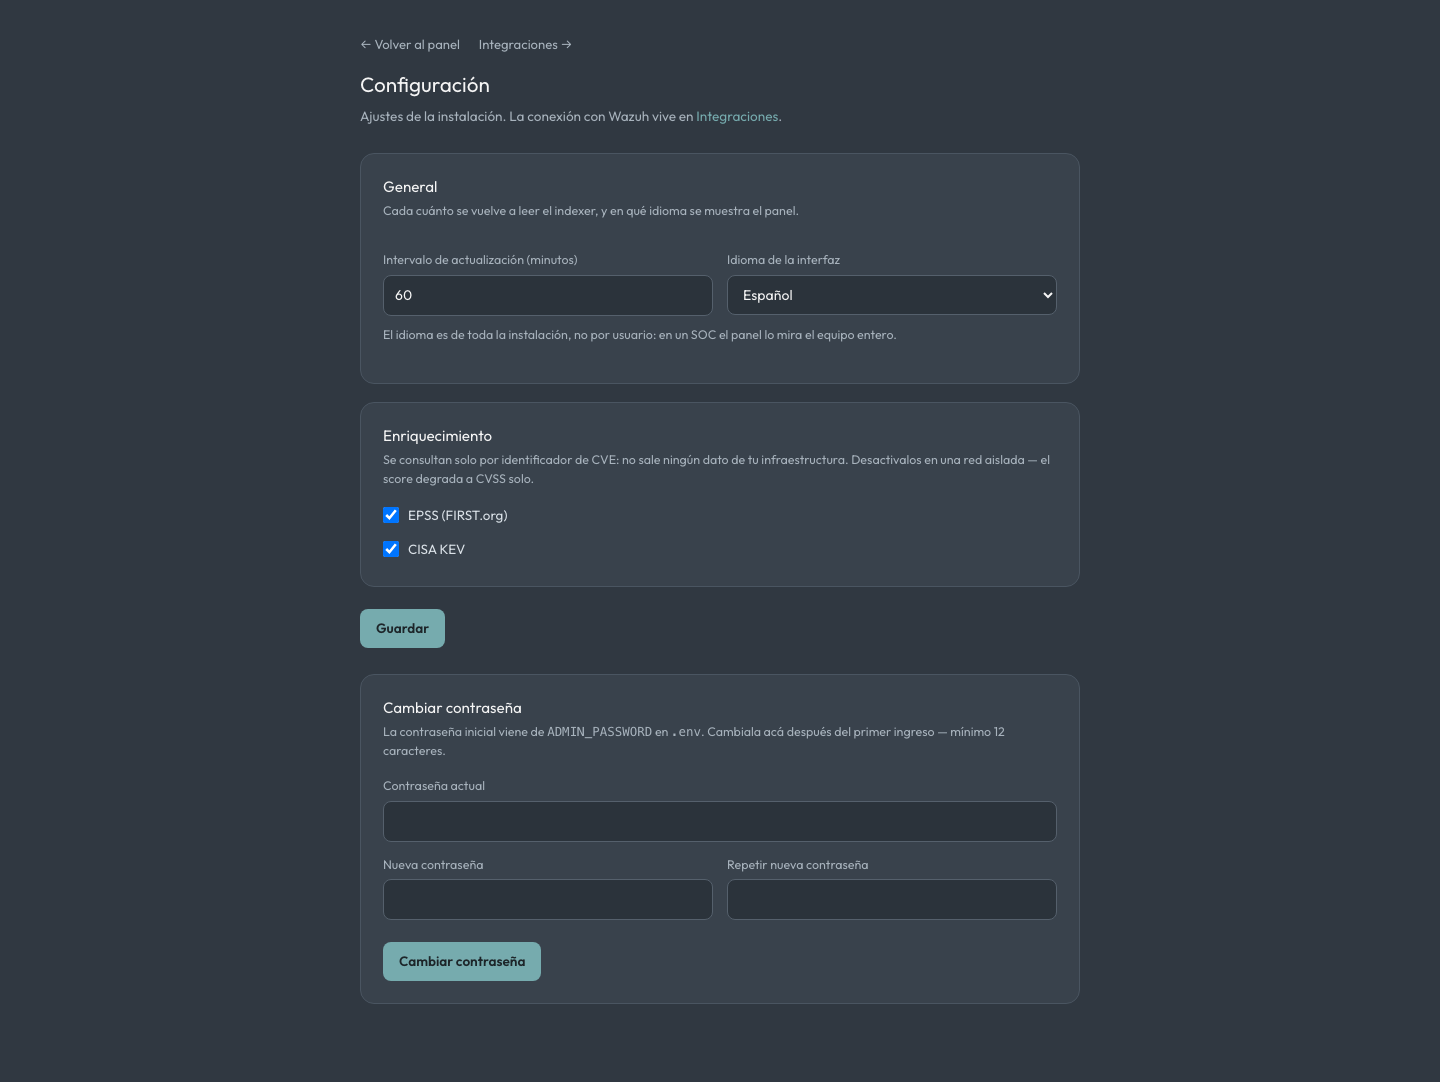
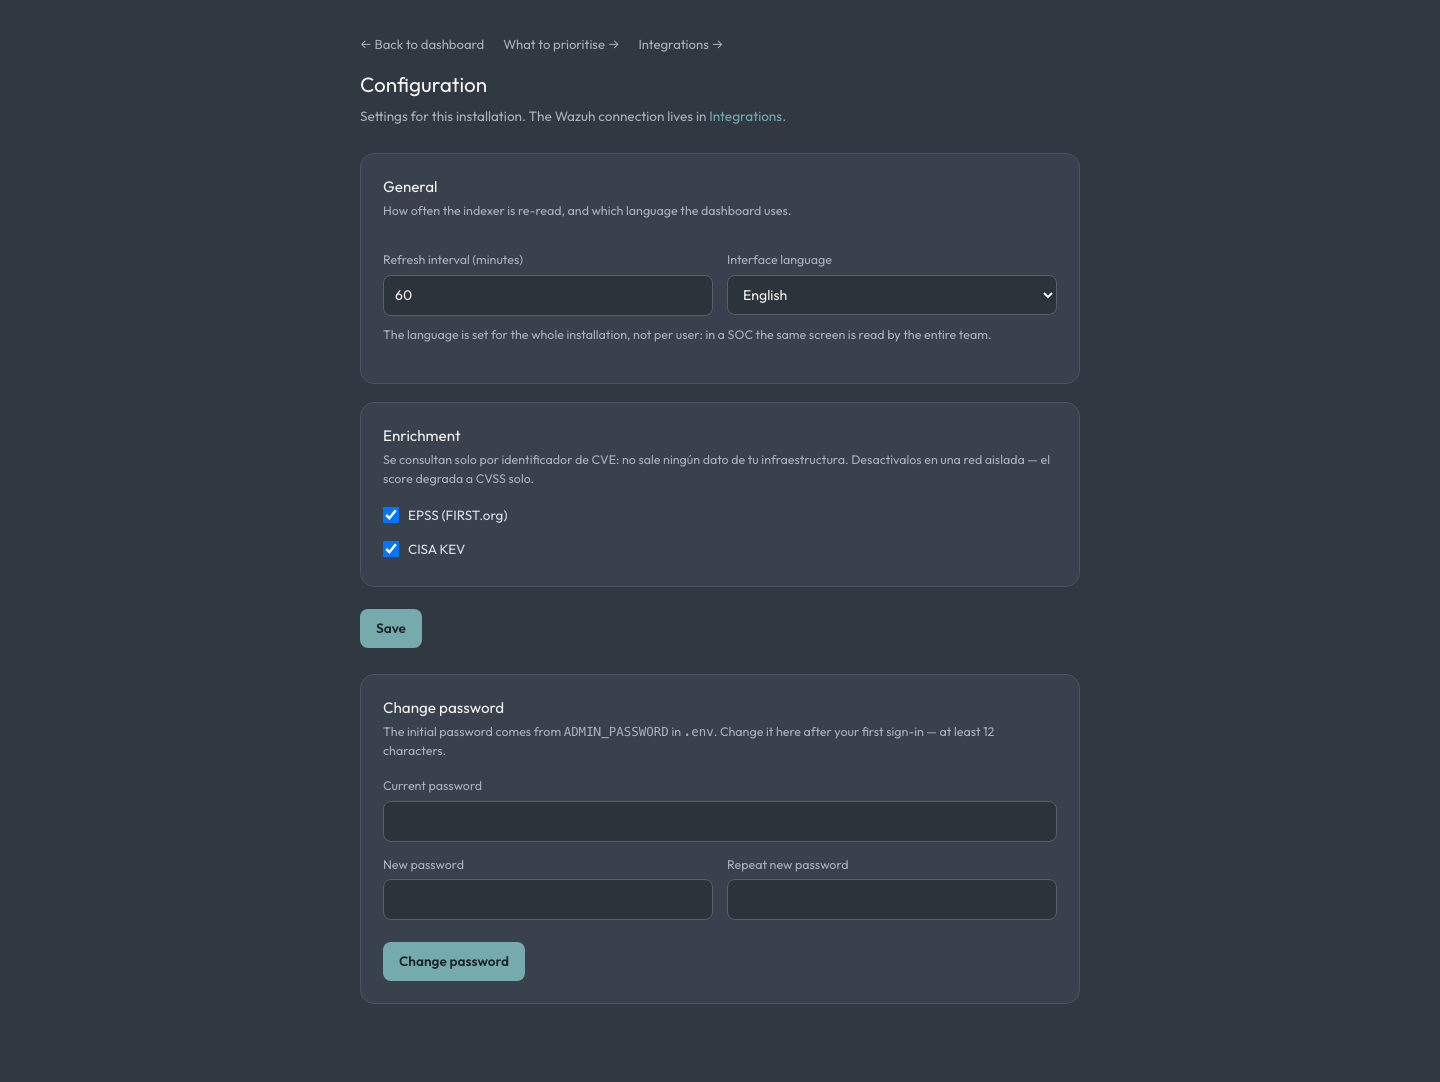
Refresh the README and the launch post
Every screenshot was of the Spanish interface, which no longer exists. All six
are recaptured, and the architecture and sequence diagrams swap to the light
theme — they sit on a white README page, where the dark ones read as a hole in
the middle of the text.

Adds the brief to the features, its own section with the warning about what
leaves the network, and a FAQ entry answering that directly rather than leaving
someone to infer it. The post gains the same, plus the note that a local model
keeps the hostnames inside.

Claude-Session: https://claude.ai/code/session_01LfqGgYzUrbGMaTeJnwS7xj

diff --git a/docs/marketing/linkedin-post.md b/docs/marketing/linkedin-post.md
@@ -1,8 +1,8 @@
 # Post para LinkedIn — Patch Genius
 
-Todos los números que aparecen abajo salen de una instalación real corriendo
-contra un Wazuh 4.14.6 con agentes Linux y Windows. Están verificados contra la
-API antes de escribirlos.
+Los números salen de una instalación real contra Wazuh 4.14.6 con agentes Linux y
+Windows, verificados contra la API antes de escribirlos. Volvé a chequearlos
+antes de publicar: cambian con cada ingesta.
 
 ---
 
@@ -34,13 +34,14 @@ aunque su CVSS sea mediocre: alguien ya lo está usando.
 
 → **Separa Linux de Windows.** Un hallazgo de sistema operativo se cierra con un
 KB acumulativo, no con `apt upgrade`. Y no es un detalle: en esa instalación
-**2.089 de los 2.515 CVEs son de un solo build de Windows Server**. En el mismo
-ranking que los paquetes, tapan absolutamente todo lo demás.
+**2.089 de los 2.515 CVEs vienen de un solo build de Windows Server**. En el
+mismo ranking que los paquetes, tapan absolutamente todo lo demás.
 
-→ **Resumen con IA.** Un brief diario que dice qué priorizar esta semana, con qué
-servidores y qué paquetes. Funciona con Claude, OpenAI o un modelo local — y esa
-última opción existe porque el brief se arma con el estado real del parque,
-hostnames incluidos. Con un modelo local no sale nada de tu red.
+→ **Un brief que dice qué hacer.** Un modelo convierte el ranking en un párrafo
+que nombra servidores y paquetes concretos: qué parchear esta semana y por qué.
+Funciona con Claude, con OpenAI o con un modelo local — y esa última opción no es
+decorativa: el brief lleva hostnames, así que quien no pueda mandarlos afuera lo
+apunta a su propio endpoint y no sale nada de su red.
 
 → **Seguimiento por CVE y por agente.** El mismo CVE puede estar resuelto en un
 servidor y pendiente en otro. Responsable, estado y fecha objetivo a ese nivel.
@@ -49,9 +50,9 @@ servidor y pendiente en otro. Responsable, estado y fecha objetivo a ese nivel.
 
 El índice de vulnerabilidades de Wazuh contiene **solo lo activo**: cuando
 parcheás, el registro se borra. No hay campo de estado ni historial. Así que
-"resuelto" se deriva comparando cada lectura con la anterior. En la última
-corrida eso detectó **501 pares (CVE, servidor) cerrados en un día** que de otra
-forma simplemente habrían desaparecido de la pantalla sin dejar rastro.
+"resuelto" se deriva comparando cada lectura con la anterior. En un solo día eso
+detectó **501 pares (CVE, servidor) cerrados** que de otra forma habrían
+desaparecido de la pantalla sin dejar rastro.
 
 Y una trampa peor: Wazuh **reescribe `vulnerability.detected_at`** cada vez que
 reindexa un registro. Un SLA de parcheo construido sobre ese campo se reinicia
@@ -61,9 +62,9 @@ guarda su propia fecha de primera detección.
 **Lo demás**
 
 Autenticación en todas las rutas —la pantalla es el inventario de lo que no está
-parcheado en máquinas vivas—, credenciales cifradas en reposo, interfaz en
-español o inglés, y sin build step: cloná y levantá, sin Node ni CDN, que en
-redes aisladas importa.
+parcheado en máquinas vivas—, credenciales cifradas en reposo, interfaz en inglés
+o español, y sin build step: cloná y levantá, sin Node ni CDN, que en redes
+aisladas importa.
 
 Está en desarrollo activo. Las integraciones con SMTP, Jira, Slack y Teams ya se
 configuran y se prueban desde la app; los disparadores automáticos vienen ahora.
@@ -85,7 +86,9 @@ Un producto de Zebra Security.
 Wazuh te dice qué está sin parchear. No te dice qué parchear primero.
 
 Hice **Patch Genius** para eso: lee tu Wazuh y ordena los CVEs como lo haría un
-analista — CISA KEV primero, EPSS después, y un score ponderado.
+analista — CISA KEV primero, EPSS después, y un score ponderado. Después le pide
+a un modelo que lo convierta en un plan: qué parchear esta semana, en qué
+servidores.
 
 En la instalación donde lo desarrollé: 2.515 CVEs, de los cuales **86 en CISA KEV
 y 16 con ransomware conocido**. Ese es el número por el que empezás.
@@ -99,8 +102,8 @@ build de Windows Server: si comparten ranking con los paquetes, tapan todo.
 reindexar, así que un SLA sobre ese campo se reinicia solo y muestra todo en
 verde para siempre. Patch Genius guarda su propia fecha.
 
-• **Un resumen con IA** que dice qué priorizar, con Claude, OpenAI o un modelo
-local — porque el brief lleva hostnames y no todo el mundo puede mandarlos afuera.
+• **El brief puede correr local.** Lleva hostnames, así que si no podés mandarlos
+a un tercero, lo apuntás a tu propio modelo y no sale nada.
 
 Open source (MIT), `docker compose up`.
 
@@ -110,29 +113,32 @@ Open source (MIT), `docker compose up`.
 
 ---
 
-## Versión técnica (para un público más de ingeniería)
+## Versión técnica
 
 ---
 
 Wazuh 4.8 movió los datos de vulnerabilidades de la API del manager al Indexer.
-Construí una herramienta encima de ese índice y me encontré con tres cosas que no
-esperaba:
+Construí una herramienta encima de ese índice y me encontré con cuatro cosas que
+no esperaba:
 
 **1. El índice solo tiene lo activo.** Cuando parcheás, Wazuh borra el registro.
-No hay campo de estado, no hay historial. "Resuelto" y "reabierto" hay que
-derivarlos comparando cada lectura con la anterior.
+No hay campo de estado ni historial. "Resuelto" y "reabierto" hay que derivarlos
+comparando cada lectura con la anterior.
 
 **2. Hay que leerlo con un point-in-time.** Como el scanner borra filas mientras
 paginás, un cursor sin congelar se saltea registros — y esos registros salteados
 se reportan después como "resueltos". Un falso negativo de parcheo.
 
 **3. `vulnerability.detected_at` se reescribe.** Cada vez que Wazuh reindexa un
-registro, esa fecha se actualiza. Un SLA construido sobre ese campo se reinicia
-solo y nunca vence: muestra todo en verde para siempre. Hay que guardar fecha
-propia.
+registro, esa fecha se actualiza. Un SLA sobre ese campo se reinicia solo y nunca
+vence: muestra todo en verde para siempre. Hay que guardar fecha propia.
 
-Bonus: el centinela de "sin puntaje" no es `null` ni `0`, es `-1.0` con severidad
+**4. El centinela de "sin puntaje" es `-1.0`**, no `null` ni `0`, con severidad
 `-`. Sin filtrarlo, esos CVEs entran al ranking como CVSS cero real.
+
+Bonus para quien use OpenSearch: `_shard_doc` no existe ahí — es de
+Elasticsearch. La query con PIT falla con `all shards failed` hasta que ordenás
+por `_doc`.
 
 Todo eso está resuelto en **Patch Genius**: prioriza con CISA KEV y EPSS, separa
 CVEs de sistema operativo de los de paquete, lleva el ciclo de vida por (CVE,
@@ -148,14 +154,14 @@ MIT, `docker compose up`, sin build step.
 
 ## Notas para publicar
 
-- **Imagen**: `docs/img/dashboard.png` (las cuatro tarjetas de prioridad) para la
-  versión principal o la corta; `docs/img/arquitectura.png` para la técnica.
-  Subila aparte en vez de dejar que LinkedIn tome la del repo — el preview del
-  link recorta a 1200×627.
-- **Las primeras dos líneas** son lo único visible antes del "ver más". Están
-  escritas para funcionar solas.
-- **Los números cambian.** Salen de una instalación viva: cuando la escribí eran
-  2.515 CVEs / 86 KEV / 16 ransomware / 501 resueltas. Verificalos antes de
-  publicar o sacá las cifras.
+- **Imagen**: `docs/img/dashboard.png` para la principal o la corta;
+  `docs/img/arquitectura.png` (ahora en tema claro) para la técnica.
+  Subila aparte — el preview del link recorta a 1200×627.
+- **Las primeras dos líneas** son lo único visible antes del "ver más".
+- **Números al momento de escribir**: 2.515 CVEs · 86 KEV · 16 ransomware · 2.089
+  de Windows · 501 pares resueltos en un día. Reverificalos o sacalos.
 - **Lo que el post NO promete**: alertas automáticas por Slack/Teams/mail ni
-  creación de tickets en Jira. Eso todavía no dispara solo, y el post lo dice.
+  creación de tickets en Jira. Eso todavía no dispara solo.
+- **Pendiente antes de publicar**: probar el brief contra la API real de Claude.
+  Se verificó el pipeline completo con un modelo simulado, pero la llamada a
+  Anthropic nunca corrió con una key válida.

diff --git a/README.md b/README.md
@@ -54,6 +54,10 @@ Everything the dashboard shows about time is therefore derived here, not read fr
   a genuine zero: unscored means unknown, not harmless.
 - **Ownership per CVE and per agent** — the same CVE can be resolved on one host and open
   on another, so owner, status and due date are tracked at that granularity.
+- **A brief that says what to do** — an LLM turns the ranking into a paragraph naming the
+  hosts and packages to patch first. Claude, OpenAI, or a local model: the brief carries
+  hostnames, so anyone who cannot send those out points it at their own endpoint and
+  nothing leaves.
 - **Onboarding in the app** — the Wazuh connection is configured from a tab, tested before
   it is saved, and stored encrypted. Nothing is baked into the image.
 - **English or Spanish** — set once for the installation, since a SOC screen is read by the
@@ -109,11 +113,23 @@ posts to the channel — because a saved setting that was never tried tells you 
 Credentials are encrypted at rest and never returned to the browser; a webhook URL counts
 as one, since anyone holding it can post into your channel.
 
+### What to prioritise
+
+The ranking answers "which CVE is worst". This answers "what do I do on Monday" — written
+once a day after the ingest, or on demand.
+
+![What to prioritise](docs/img/brief.png)
+
+> [!WARNING]
+> The brief is built from the fleet's real state, hostnames included — that is what makes
+> it specific enough to act on. With a hosted model that inventory leaves your network.
+> Point it at a local OpenAI-compatible endpoint and nothing does. It ships disabled.
+
 ### Configuration
 
-Everything that is about this installation rather than a connection: how often the indexer
-is re-read, which language the interface uses, whether the public feeds are enabled, and
-the password.
+Everything about this installation rather than a connection: how often the indexer is
+re-read, which language the interface uses, whether the public feeds are enabled, and the
+password.
 
 ![Configuration](docs/img/configuracion.png)
 
@@ -154,6 +170,12 @@ it is counted under both.
 Not yet, but the collector is the only Wazuh-specific part. `app/ingest.py:collect()`
 dispatches on the configured scanner, and everything downstream consumes a normalised
 record shape, so adding another source means writing one collector.
+
+**Does anything of mine reach the model?**
+Only if you enable the brief and choose a hosted provider. It sends the fleet snapshot —
+severity counts, platform split, patching metrics, and the top 25 CVEs with their hosts and
+packages. A local endpoint keeps all of it inside your network. EPSS and CISA KEV are
+separate and only ever see CVE identifiers.
 
 **Where do I change the scoring weights?**
 Environment variables — `VULN_CVSS_WEIGHT`, `VULN_EPSS_WEIGHT`, `VULN_KEV_WEIGHT`,
